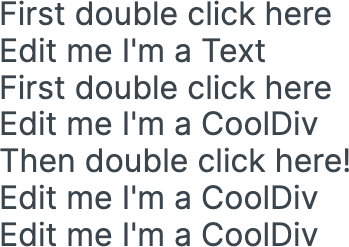
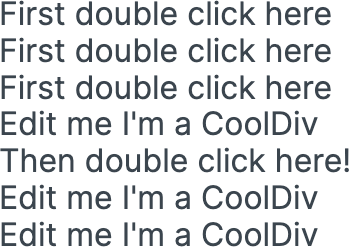
[ecu] Edit text on component App

Changed region(s): [[0.0, 0.1417, 0.9456, 0.2551]]

diff --git a/app/src/App.tsx b/app/src/App.tsx
@@ -39,7 +39,7 @@ The app, splendid!
 function App(props: AppPropsType) {
   return (
     <>
-      <Text data-ecu="hxtLeUVgve:0">First double click here</Text>
+      <Text data-ecu="hxtLeUVgve:0">!</Text>
       <Text data-ecu="hxtLeUVgve:1">First double click here</Text>
       <Text data-ecu="hxtLeUVgve:2">First double click here</Text>
       <CoolDiv />
